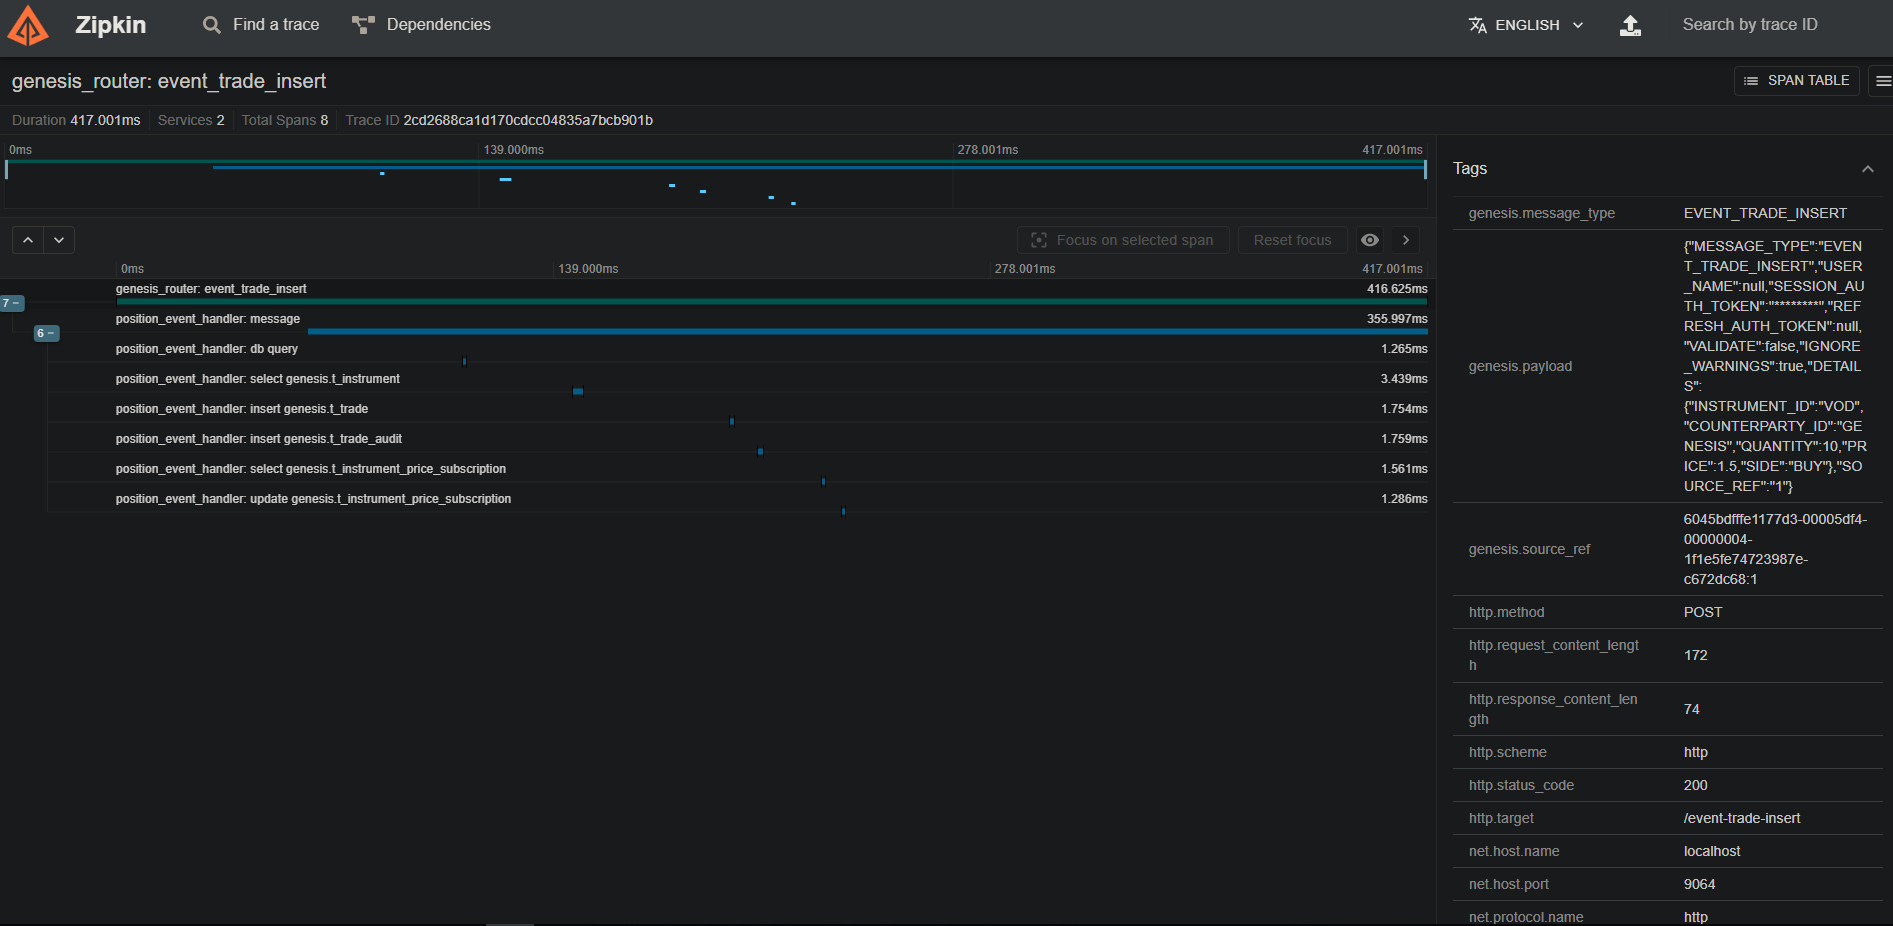
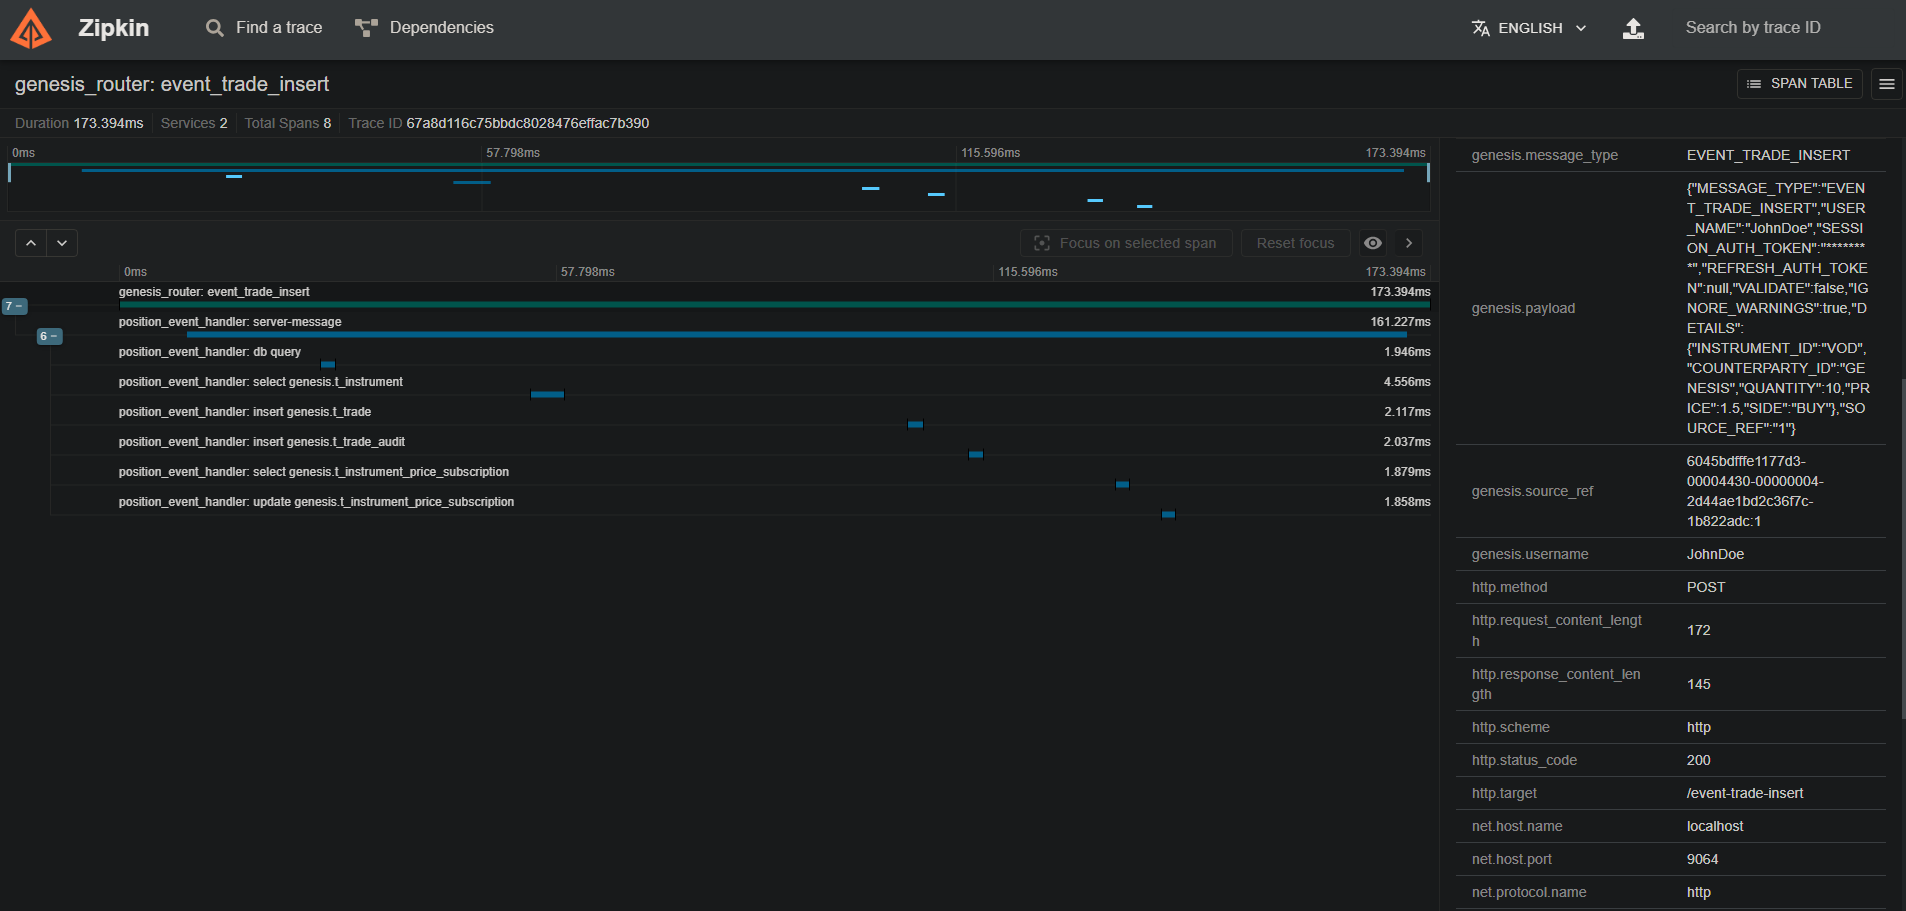
add more tracing docs

diff --git a/docs/05_operations/11_tracing/01_tracing.md b/docs/05_operations/11_tracing/01_tracing.md
@@ -84,3 +84,7 @@ WebSocket Req Rep message:
 HTTP Insert event:
 
 ![](/img/tracing-zipkin-event-insert.png)
+
+Messages across multiple services:
+
+![](/img/tracing-zipkin-multiple-services.png)
